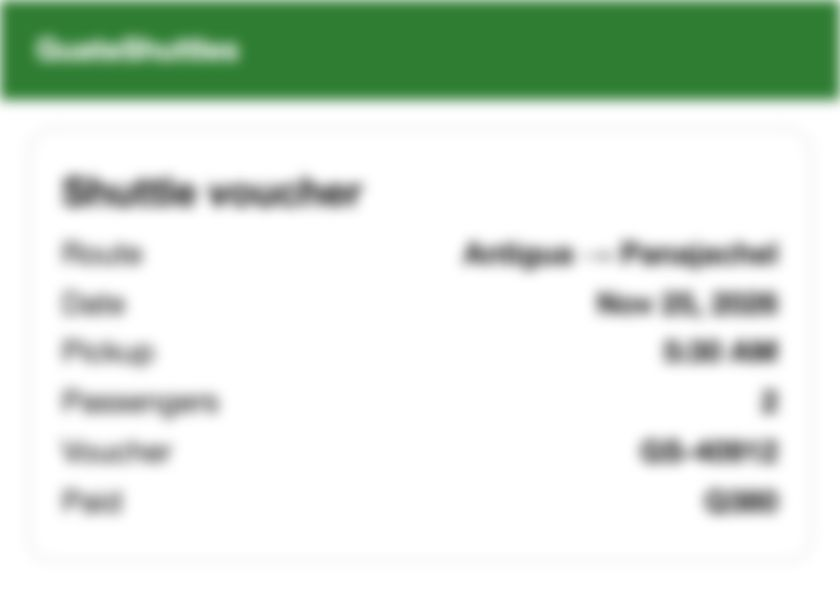
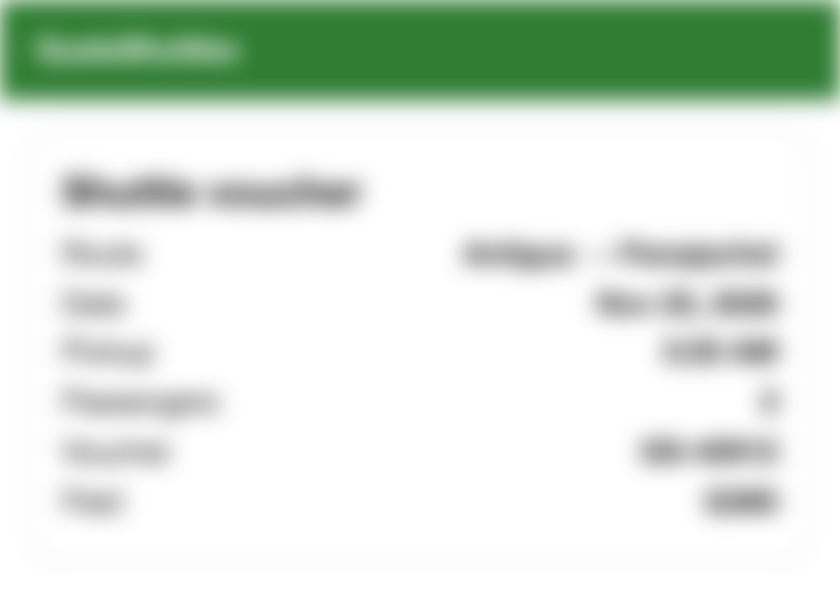
Sharpen screenshot eval: truly unreadable blurry sample, accept filling a placeholder

diff --git a/scripts/screenshot-eval.ts b/scripts/screenshot-eval.ts
@@ -66,14 +66,18 @@ const CASES: Case[] = [
     name: "airbnb",
     file: "airbnb.jpg",
     text: "",
-    expect: "New booked lodging in Antigua, Nov 26 15:00 → Nov 29 11:00 (-06:00). Maybe cost 486.20 USD. No confirmation code, host phone or guest name in ops.",
+    expect: "Booked lodging in Antigua, Nov 26 15:00 → Nov 29 11:00 (-06:00), either new or filling the Nov 26–28 placeholder. Maybe cost 486.20 USD. No confirmation code, host phone or guest name in ops.",
     check: (r) => {
-      const add = opsOf(r).find((o) => o.op === "add_segment" && o.segment.kind === "lodging");
-      if (!add || add.op !== "add_segment") return ["no lodging proposed"];
+      // Either a new lodging segment, or the undecided Nov 26–28 placeholder filled in.
+      const op = opsOf(r).find(
+        (o) => (o.op === "add_segment" && o.segment.kind === "lodging") || (o.op === "update_segment" && o.id === "lodging-nov26-28"),
+      );
+      if (!op) return ["no lodging proposed"];
+      const v = op.op === "add_segment" ? op.segment : op.op === "update_segment" ? op.changes : null;
       const problems: string[] = [];
-      if (!add.segment.start?.startsWith("2026-11-26")) problems.push(`start is ${add.segment.start}`);
-      if (!add.segment.end?.startsWith("2026-11-29")) problems.push(`end is ${add.segment.end}`);
-      if (add.segment.status !== "booked") problems.push(`status ${add.segment.status}`);
+      if (!v?.start?.startsWith("2026-11-26")) problems.push(`start is ${v?.start}`);
+      if (!v?.end?.startsWith("2026-11-29")) problems.push(`end is ${v?.end}`);
+      if (v?.status !== "booked") problems.push(`status ${v?.status}`);
       return problems;
     },
   },
@@ -96,11 +100,12 @@ const CASES: Case[] = [
     text: "Can you add this shuttle?",
     expect: "Can't read reliably: asks (ask_user) or proposes only what's legible, leaving unreadable fields (time, price) unknown and saying which.",
     check: (r) => {
-      const add = opsOf(r).find((o) => o.op === "add_segment");
-      if (!r.asks.length && add?.op === "add_segment" && add.segment.start?.includes("T")) {
-        return [`put a precise time on an unreadable voucher: ${add.segment.start}`];
-      }
-      return [];
+      // The voucher is blurred past reading: any precise time or price is a guess.
+      const text = JSON.stringify(opsOf(r));
+      const problems: string[] = [];
+      if (/T\d{2}:\d{2}/.test(text)) problems.push("put a precise time on an unreadable voucher");
+      if (/"cost"/.test(text)) problems.push("put a price on an unreadable voucher");
+      return problems;
     },
   },
   {

diff --git a/evals/screenshots/src/blurry.html b/evals/screenshots/src/blurry.html
@@ -1,4 +1,4 @@
-<link rel="stylesheet" href="base.css"><div style="filter:blur(3.2px)"><div class="bar" style="background:#2e7d32;color:#fff">GuateShuttles</div>
+<link rel="stylesheet" href="base.css"><div style="filter:blur(5.5px)"><div class="bar" style="background:#2e7d32;color:#fff">GuateShuttles</div>
 <div class="card"><h1>Shuttle voucher</h1><div class="row"><span>Route</span><b>Antigua → Panajachel</b></div>
 <div class="row"><span>Date</span><b>Nov 25, 2026</b></div><div class="row"><span>Pickup</span><b>5:30 AM</b></div>
 <div class="row"><span>Passengers</span><b>2</b></div><div class="row"><span>Voucher</span><b>GS-40912</b></div><div class="row"><span>Paid</span><b>Q380</b></div></div></div>
